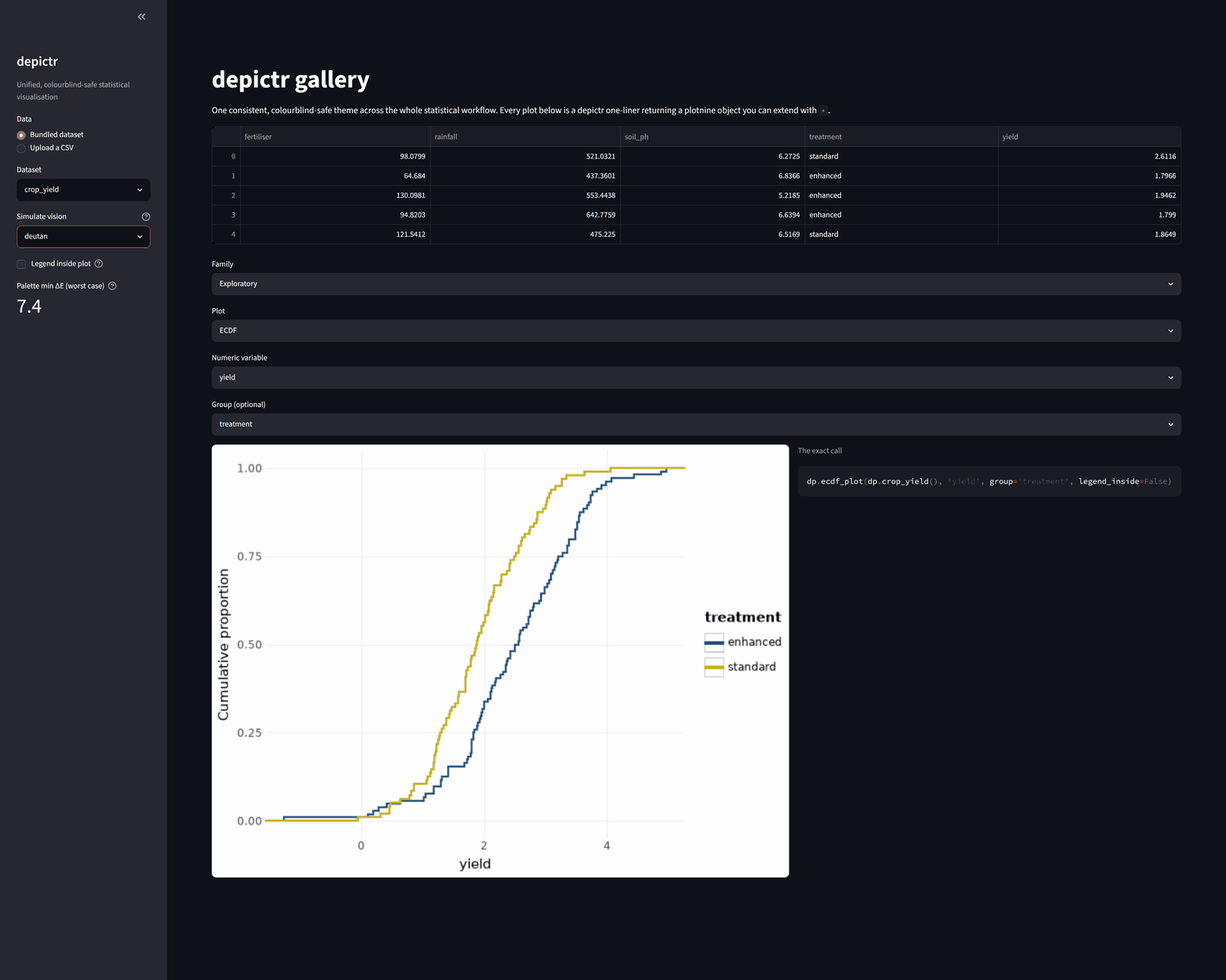
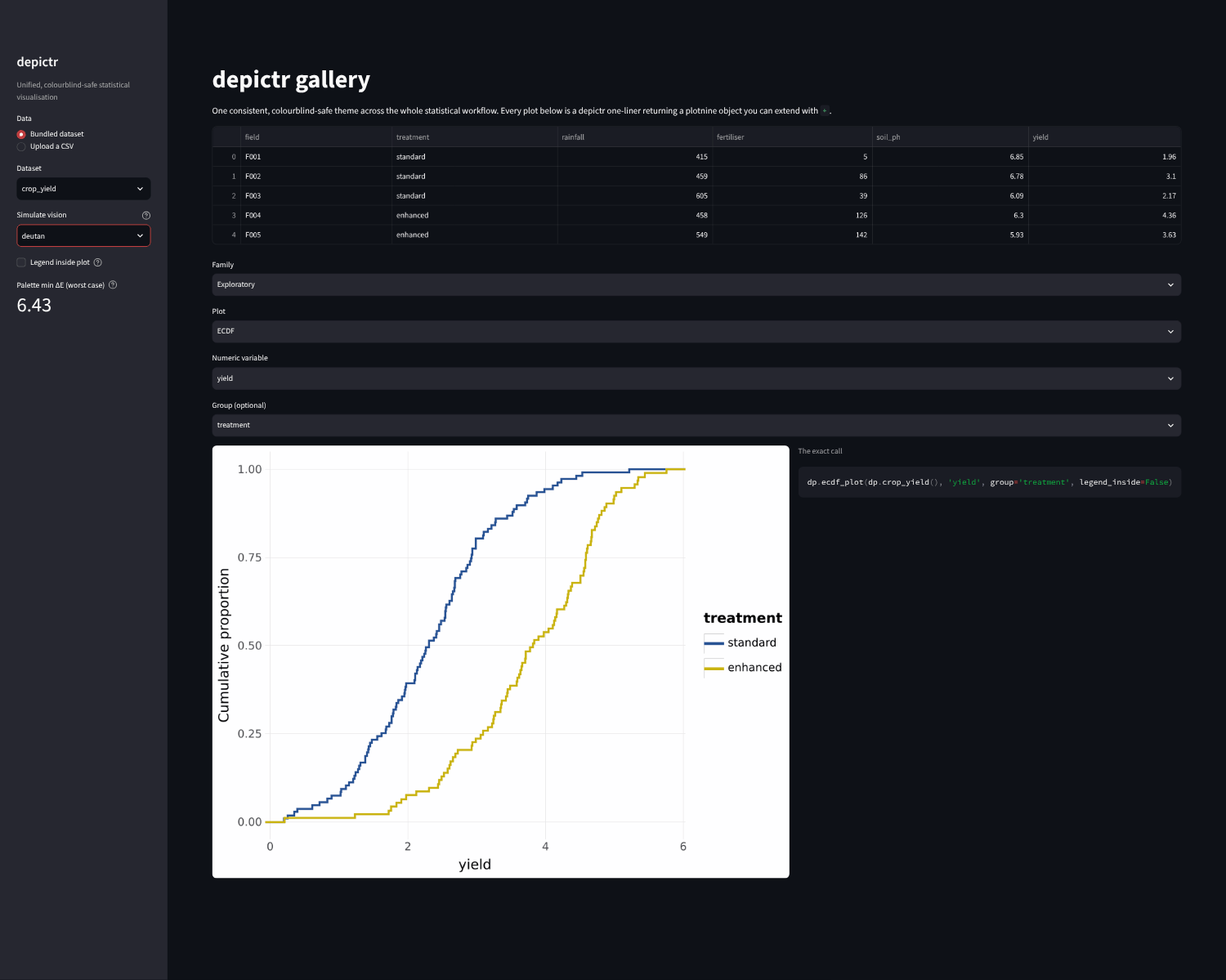
Retake the app screenshots, and describe the palette as based on the Okabe-Ito set
The app guide's two screenshots predated the R datasets and the CIEDE2000
distance. They showed a worst-case palette distance of 7.4 where the app
shows 6.43, and the treatments in each other's colours. Both are retaken from
the current app, headless, at the same size, and their alt text describes what
they show. The docstrings, README and guides called the built-in palette the
Okabe-Ito set and credited that set with the pair palette_safety()'s threshold
is calibrated against. They now say that the palette is based on the set, and
depictr_palette() says what it keeps and replaces, as in the R twin.

random_effects_plot() sorts only the first random-effect term's panel, and its
docstring, comments and the README's list of differences from the R twin now
say so. The stylesheet's theoryforge diagram rules are kept, with comments
saying they serve theoryforge's sites. Comments in the app, pyproject.toml and
CI that narrated earlier states give the current behaviour and its reason, and
ci.yml says that the minimum-versions job installs the oldest declared minor
series. CHANGELOG has one entry under Fixed.

mkdocs build --strict passes, and pytest gives 970 passed, as before.

Claude-Session: https://claude.ai/code/session_01DU2exZ55JyV54E9U6ct3Wn

diff --git a/docs/stylesheets/brand.css b/docs/stylesheets/brand.css
@@ -493,15 +493,16 @@ body[data-md-color-scheme="slate"] .md-footer-meta.md-typeset a:hover {
   color: #fff;
 }
 
-/* Diagram figures shared with the pkgdown site. The chart views (the Venn of
+/* Diagram figures. These rules serve theoryforge's sites, and depictr's sites
+   emit no such figures. They are kept so that this copy of the family's
+   stylesheet stays in step with the others. The chart views (the Venn of
    construct scope, the rigour status grid, the severity bars) and the rendered
    Graphviz views all declare their own width and height, so each is left at its
    natural size and its declared type renders at the size the emitter asked for.
-   An earlier version of this rule instead stretched every chart to a common
-   440px cap, which scaled the three chart views by three different factors, the
-   views having different natural widths, so one identical 13px label came out at
-   12.4px in one figure and 17.9px in another. A chart wider than the column
-   still shrinks to fit rather than forcing a scrollbar. */
+   A common width cap would scale views of different natural widths by
+   different factors, so one 13px label would come out at a different size in
+   each figure. A chart wider than the column still shrinks to fit rather than
+   forcing a scrollbar. */
 .tf-figure { margin: 1.25rem 0; }
 .tf-figure svg {
   display: block;
@@ -628,20 +629,21 @@ body[data-md-color-scheme="slate"] .md-footer-meta.md-typeset a:hover {
 }
 
 /* ---- Scrollbars --------------------------------------------------------- */
-/* A wide code block, table or rendered diagram scrolls inside its own box (set
-   above). Give that scroll a branded, always-visible grip: left to the browser
-   default the thumb all but vanishes against the navy dark-mode code ground, so
-   the bar reads as an empty gutter with no movable part. Both the standard
-   properties (Firefox) and the WebKit pseudo-elements (Chrome, Edge, Safari)
-   are set, so a clearly visible thumb appears in every engine. The colour is
-   the package's bright accent: --brand-teal on most sites (retuned to blue on
-   depictr), falling back to --brand-violet on lexsync.
+/* A wide code block or table, or a rendered diagram on theoryforge's sites,
+   scrolls inside its own box (set above). Give that scroll a branded,
+   always-visible grip: left to the browser default the thumb all but vanishes
+   against the navy dark-mode code ground, so the bar reads as an empty gutter
+   with no movable part. Both the standard properties (Firefox) and the WebKit
+   pseudo-elements (Chrome, Edge, Safari) are set, so a clearly visible thumb
+   appears in every engine. The colour is the package's bright accent:
+   --brand-teal on most sites (retuned to blue on depictr), falling back to
+   --brand-violet on lexsync.
 
    A table needs the wrapper named as well. Material puts the table inside
    .md-typeset__scrollwrap and scrolls that, not the table, so a rule written
-   for the table alone dressed an element that never scrolls and a wide table
-   kept the plain system bar while every code block beside it carried the
-   brand's. */
+   for the table alone would dress an element that never scrolls, and a wide
+   table would keep the plain system bar while every code block beside it
+   carried the brand's. */
 .md-typeset pre,
 .md-typeset pre > code,
 .md-typeset .highlight,
@@ -714,11 +716,11 @@ body[data-md-color-scheme="slate"] .md-footer-meta.md-typeset a:hover {
   padding: 0;
   margin-top: .35rem;
 }
-/* A block that prints its own text, a generated Graphviz DOT source say, cannot
-   be divided line by line at the source, so let output wrap rather than force a
-   horizontal scroll. Source keeps its exact layout: its long lines were
-   shortened at the source, and anything still too wide scrolls under the
-   branded scrollbar. */
+/* A block that prints its own text, such as a generated Graphviz DOT source on
+   theoryforge's sites, cannot be divided line by line at the source, so let
+   output wrap rather than force a horizontal scroll. Source keeps its exact
+   layout: its lines are kept short at the source, and anything still too
+   wide scrolls under the branded scrollbar. */
 /* The accent rule that marks a block as output is painted inside the box, by
    the scheme rules below, rather than added to the border: a 3px border where
    the source block above has none pushed the output text three pixels to the

diff --git a/src/depictr/palette.py b/src/depictr/palette.py
@@ -1,13 +1,13 @@
 """Colourblind-aware palettes shared by every depictr plot.
 
-The qualitative palette is the Okabe-Ito set (Okabe & Ito, 2008), a categorical
-scheme that stays distinguishable under the common forms of colour-vision
-deficiency, led here by the depictr brand blue. The sequential and diverging
-palettes are perceptually ordered single-hue and red-blue ramps. These are the
-defaults behind :func:`depictr.theme.scale_colour_depictr` and the whole package,
-so every figure shares one accessible colour language.
+The qualitative palette is based on the Okabe-Ito set (Okabe & Ito, 2008), a
+categorical scheme that stays distinguishable under the common forms of
+colour-vision deficiency. It is led by the depictr brand blue. The sequential
+and diverging palettes are perceptually ordered single-hue and red-blue ramps.
+These are the defaults behind :func:`depictr.theme.scale_colour_depictr` and the
+whole package, so every figure shares one accessible colour language.
 
-The guarantee is a property of the eight Okabe-Ito colours, not of any number of
+The guarantee is a property of the eight built-in colours, not of any number of
 colours: past eight, :func:`depictr_palette` has to interpolate between them, and
 the interpolated colours sit close enough together to fail
 :func:`depictr.cvd.palette_safety` (nine colours come within a CIEDE2000
@@ -29,8 +29,9 @@ import warnings
 import matplotlib.colors as mcolors
 import numpy as np
 
-# The qualitative palette: the Okabe-Ito colours, led by the depictr brand blue
-# (#005b96) in place of the lighter standard blue so the brand reads first.
+# The qualitative palette, based on the Okabe-Ito colours: the depictr brand blue
+# (#005b96) leads in place of their lighter blue so the brand reads first, and a
+# grey takes the place of their black.
 OKABE_ITO: list[str] = [
     "#005b96",  # blue (brand)
     "#e69f00",  # orange
@@ -122,6 +123,11 @@ def depictr_palette(n: int | None = None, kind: str = "qualitative",
                     order: str = "default") -> list[str]:
     """Return a depictr palette.
 
+    The qualitative palette is based on the Okabe-Ito set and keeps six of its
+    eight colours. The depictr brand blue (``#005b96``) takes the place of its
+    blue (``#0072b2``) and leads the palette, and a grey (``#999999``) takes the
+    place of its black.
+
     In the default order the second colour is the orange (``#e69f00``), at
     2.25:1 against white. Any figure on white whose colour tells two or more
     groups apart therefore fails the ``geometry_contrast`` row of
@@ -150,8 +156,8 @@ def depictr_palette(n: int | None = None, kind: str = "qualitative",
     n : int, optional
         Number of colours to return, a single number of at least 1. A
         fraction is truncated, as in the R twin, so 2.7 gives two colours. For
-        the qualitative palette ``None`` (the default) returns the full
-        Okabe-Ito set, and an ``n`` larger than the available colours is
+        the qualitative palette ``None`` (the default) returns all eight
+        colours, and an ``n`` larger than the available colours is
         interpolated. The sequential and diverging palettes are ramps and
         accept any ``n`` (defaulting to 7).
     kind : {"qualitative", "sequential", "diverging"}
@@ -175,7 +181,7 @@ def depictr_palette(n: int | None = None, kind: str = "qualitative",
     Warns
     -----
     UserWarning
-        When ``n`` exceeds the eight Okabe-Ito colours and the qualitative
+        When ``n`` exceeds the eight built-in colours and the qualitative
         palette is therefore interpolated. The colourblind-safety guarantee
         covers the eight base colours only; an interpolated palette fails
         [`depictr.cvd.palette_safety`][]. Facet the groups, or use the

diff --git a/src/depictr/mixed.py b/src/depictr/mixed.py
@@ -54,7 +54,9 @@ def random_effects_plot(model, title=None):
     error and the plot adds a 95% interval (the point estimate plus or minus
     1.96 standard errors); without it the points are drawn on their own. If the
     model has more than one random-effect term per group (a random intercept and
-    one or more random slopes), the terms are shown in separate panels.
+    one or more random slopes), the terms are shown in separate panels. Only the
+    first panel is then sorted by its effects, and the later panels share its
+    order. The R twin sorts each panel by its own effects.
 
     Parameters
     ----------
@@ -117,12 +119,13 @@ def random_effects_plot(model, title=None):
     df = pd.DataFrame(rows)
     has_interval = df["low"].notna().any()
 
-    # One panel per random-effect term; sort the group axis within each term so
-    # the most negative effect sits at the bottom after the flip.
+    # One panel per random-effect term. Sort by term, then by effect, so that in
+    # the first panel, which shows the term that sorts first, the most negative
+    # effect sits at the bottom after the flip.
     df = df.sort_values(["term", "effect"]).reset_index(drop=True)
-    # A categorical group axis with a per-term ordering: build the level list in
-    # plotting order. When there are several terms the same group appears under
-    # each, so the order is taken from the (already sorted) appearance.
+    # One categorical group axis, shared by every panel: the level list is the
+    # order in which the groups first appear, which is the first term's sorted
+    # order. The panels of later terms keep that order rather than their own.
     order = list(dict.fromkeys(df["group"]))
     df["group"] = pd.Categorical(df["group"], categories=order, ordered=True)
 

diff --git a/src/depictr/cvd.py b/src/depictr/cvd.py
@@ -580,14 +580,15 @@ def palette_safety(colours: str | list[str] | None = None, threshold: float = 5.
     passes the check under CIE76, although under deuteranopia its sky blue and
     its pink come within 2.74 of each other in CIEDE2000.
 
-    The default ``threshold`` of 5.0 is calibrated against the reference
-    colourblind-safe palette: the Okabe-Ito set's tightest pair (reddish-purple
-    against grey) sits at 6.43 under full deuteranopia, so the cut must lie
-    below that to pass the recommended palette, while still flagging colours that
-    become near-identical under a deficiency. The difference includes lightness,
-    which survives colour-vision deficiency, so two colours that share a hue but
-    differ in lightness are correctly treated as distinguishable. Full severity
-    is the worst case; most colour-vision deficiency is milder.
+    The default ``threshold`` of 5.0 is calibrated against the built-in palette
+    of [`depictr.depictr_palette`][], which is based on the Okabe-Ito set. That
+    palette's tightest pair (reddish-purple against grey) sits at 6.43 under full
+    deuteranopia, so the cut must lie below that to pass the built-in palette,
+    while still flagging colours that become near-identical under a deficiency.
+    The difference includes lightness, which survives colour-vision deficiency,
+    so two colours that share a hue but differ in lightness are correctly
+    treated as distinguishable. Full severity is the worst case; most
+    colour-vision deficiency is milder.
 
     Parameters
     ----------

diff --git a/src/depictr/timeseries.py b/src/depictr/timeseries.py
@@ -480,12 +480,12 @@ def seasonal_plot(x, period=None, title=None):
         + geom_point(size=1.5)
         + x_scale
         # The cycles are a sequence, not unrelated categories, so they take a
-        # single-hue ramp. It reads in time order and, unlike the eight
-        # Okabe-Ito colours of the qualitative palette, extends to any number
-        # of cycles, although past about six its neighbouring colours blur. It
-        # leaves out the palest colour of the sequential palette, which is
-        # close to invisible as a line. The legend is reversed so the darkest,
-        # most recent cycle sits at the top of the key, matching the R twin.
+        # single-hue ramp. It reads in time order and, unlike the eight colours
+        # of the qualitative palette, extends to any number of cycles, although
+        # past about six its neighbouring colours blur. It leaves out the
+        # palest colour of the sequential palette, which is close to invisible
+        # as a line. The legend is reversed so the darkest, most recent cycle
+        # sits at the top of the key, matching the R twin.
         + scale_color_manual(values=_cycle_palette(n_cycles),
                              name="Cycle", guide=guide_legend(reverse=True))
         + labs(x="Position in period", y="Value", title=title)

diff --git a/src/depictr/__init__.py b/src/depictr/__init__.py
@@ -6,8 +6,8 @@ statistical workflow -- exploratory analysis, model estimates, diagnostics,
 classification, multivariate analysis, survival and time series -- so a coherent
 figure set no longer means stitching together half a dozen libraries with
 mismatched defaults. Every plotting function returns a plotnine object you can
-extend with ``+``, and the colourblind-safe Okabe-Ito palette is the default,
-validated by a built-in colour-vision-deficiency safety check.
+extend with ``+``, and a colourblind-safe palette based on the Okabe-Ito set is
+the default, validated by a built-in colour-vision-deficiency safety check.
 
 It is the Python sibling of the depictr R package
 (https://pablobernabeu.github.io/depictr/).

diff --git a/src/depictr/theme.py b/src/depictr/theme.py
@@ -149,7 +149,7 @@ def scale_colour_depictr(n: int | None = None, order: str = "default",
     ----------
     n : int, optional
         Number of colours to draw. By default, the scale takes as many colours
-        as the plot has groups: the Okabe-Ito colours in order up to eight,
+        as the plot has groups: the built-in colours in order up to eight,
         and past eight a palette interpolated through them. Interpolation loses
         the colourblind-safety guarantee, which covers the eight base colours
         only, so [`depictr.palette.depictr_palette`][] warns past eight; facet

diff --git a/README.md b/README.md
@@ -24,11 +24,11 @@ two differ.
 
 ## Gallery
 
-A grouped density (the default palette is the colourblind-safe Okabe-Ito set) and
-Kaplan-Meier survival curves with a log-rank test and a number-at-risk table,
-both from a single function call:
+A grouped density (the default palette is a colourblind-safe set based on
+Okabe-Ito) and Kaplan-Meier survival curves with a log-rank test and a
+number-at-risk table, both from a single function call:
 
-![Grouped density of response times by priming condition, in the Okabe-Ito palette](https://raw.githubusercontent.com/pablobernabeu/depictr-py/main/images/readme-distribution.png)
+![Grouped density of response times by priming condition, in the default palette](https://raw.githubusercontent.com/pablobernabeu/depictr-py/main/images/readme-distribution.png)
 
 ![Kaplan-Meier survival curves by treatment arm, with a log-rank test and a number-at-risk table](https://raw.githubusercontent.com/pablobernabeu/depictr-py/main/images/readme-survival.png)
 
@@ -55,10 +55,11 @@ accessible figure.
 
 ## Accessibility by default
 
-The default palette is the Okabe-Ito set, and the package puts that choice to a
-test. It ships a simulator of colour-vision deficiency based on the model of
-Machado, Oliveira and Fernandes (2009), and a CIEDE2000 colour-difference test
-that measures how far apart the palette's colours stay under each deficiency:
+The default palette is based on the Okabe-Ito set, and the package puts that
+choice to a test. It ships a simulator of colour-vision deficiency based on the
+model of Machado, Oliveira and Fernandes (2009), and a CIEDE2000
+colour-difference test that measures how far apart the palette's colours stay
+under each deficiency:
 
 ```python
 import depictr as dp
@@ -69,7 +70,7 @@ dp.palette_safety()
 #  'safe': True, 'threshold': 5.0}
 ```
 
-The guarantee belongs to the eight Okabe-Ito colours. A plot with more than
+The guarantee belongs to the eight built-in colours. A plot with more than
 eight groups has to interpolate between them, and the interpolated colours no
 longer clear the distance threshold, so `depictr_palette` warns when it is asked
 for a ninth. Facet the groups, or map them to the sequential ramp, when a figure
@@ -258,7 +259,10 @@ x-axis of its own by default. `model_report` draws the coefficients
 on their own scale beside a residual panel and a Q-Q plot, where the R function
 standardises the continuous predictors by default and adds an effects panel and
 a subtitle of fit statistics. `effects_plot` draws no rug of the observed
-values, which the R function adds by default. `influence_plot` labels no point
+values, which the R function adds by default. With more than one random-effect
+term, `random_effects_plot` sorts the first term's panel by its effects and
+draws the later panels in that order, where the R function sorts each panel by
+its own effects. `influence_plot` labels no point
 and draws only the line at zero, where the R function labels the three points
 with the largest Cook's distance and adds reference lines at studentised
 residuals of -2 and 2 and at twice the mean leverage.

diff --git a/docs/app.md b/docs/app.md
@@ -15,7 +15,7 @@ holds the plot family, the plot, its variables, the figure and the call that
 produced it. Here it is with the crop-yield trial loaded and an empirical
 cumulative distribution split by treatment.
 
-![The depictr app with the crop-yield dataset loaded. The sidebar shows the dataset selector, a colour-vision selector reading "normal" and the palette's worst-case colour distance of 7.4. The main pane shows the first rows of the data, selectors reading Exploratory, ECDF, yield and treatment, a cumulative distribution with a blue curve for the enhanced treatment and an orange one for the standard treatment, and beside it the call dp.ecdf_plot(dp.crop_yield(), 'yield', group='treatment', legend_inside=False).](assets/app-plot-pane.png){ width="820" }
+![The depictr app with the crop-yield dataset loaded. The sidebar shows the dataset selector, a colour-vision selector reading "normal", an unticked "Legend inside plot" checkbox and the palette's worst-case colour distance of 6.43. The main pane shows the first rows of the data, selectors reading Exploratory, ECDF, yield and treatment, a cumulative distribution with a blue curve for the standard treatment and an orange one for the enhanced treatment, and beside it the call dp.ecdf_plot(dp.crop_yield(), 'yield', group='treatment', legend_inside=False).](assets/app-plot-pane.png){ width="820" }
 
 The call beside the figure is the point of the whole pane. Whatever you arrive
 at by clicking, you can paste into a script and get the same figure back.
@@ -44,7 +44,7 @@ chosen for, and the two curves stay as easy to tell apart as before. The app
 draws the simulated figure with `dp.simulate_figure`, so a script can produce
 the same view.
 
-![The same app view with the colour-vision selector set to "deutan". The cumulative distribution is redrawn with the standard-treatment curve shifted from orange to mustard yellow while the enhanced-treatment curve stays blue, and the two remain clearly distinguishable.](assets/app-colour-vision.png){ width="820" }
+![The same app view with the colour-vision selector set to "deutan". The cumulative distribution is redrawn with the enhanced-treatment curve shifted from orange to mustard yellow while the standard-treatment curve stays blue, and the two remain clearly distinguishable.](assets/app-colour-vision.png){ width="820" }
 
 ## Your own data
 

diff --git a/CHANGELOG.md b/CHANGELOG.md
@@ -248,7 +248,7 @@ and this project adheres to [Semantic Versioning](https://semver.org/spec/v2.0.0
   distance it replaces overstates differences between saturated colours:
   ggplot2's default five-colour palette was certified safe under
   deuteranopia, though two of its colours become almost identical, 2.74 apart
-  in CIEDE2000. The threshold stays at 5, and the Okabe-Ito palette's closest
+  in CIEDE2000. The threshold stays at 5, and the built-in palette's closest
   pair now measures 6.43, where it measured 7.4. `depictr_palette(9)` already
   warned that interpolated colours lose the guarantee, and its nine colours
   now fail the check too. `metric="cie76"` restores the old measure for this
@@ -815,6 +815,22 @@ and this project adheres to [Semantic Versioning](https://semver.org/spec/v2.0.0
   that every function returns a plotnine object, which holds for the plotting
   functions, and the app guide now names the sidebar's controls, the legend
   checkbox among them.
+- Documentation. The README, the guides and the docstrings called the default
+  palette the Okabe-Ito set. It is based on that set and keeps six of its
+  eight colours, with the brand blue and a grey in place of its blue and
+  black, as the docstring of `depictr_palette()` now says. The docstring of
+  `palette_safety()` credited the Okabe-Ito set with the pair that the default
+  `threshold` of 5 is calibrated against, the reddish purple and the grey,
+  6.43 apart under full deuteranopia. That set has no grey, and the docstring
+  now gives the pair to the built-in palette. `random_effects_plot()` said
+  that it sorts the levels by their effect. With more than one random-effect
+  term, only the first panel is sorted, and the later panels share its order,
+  where the R twin sorts each panel by its own effects. The docstring and the
+  README now say so. The app guide's two screenshots showed an older app, with
+  a worst-case colour distance of 7.4, the crop-yield data without its `field`
+  column and the treatments' colours the other way round. They are retaken
+  from the current app, which shows 6.43 and draws the standard treatment in
+  blue and the enhanced one in orange, and their descriptions match.
 
 ## [0.3.0] - 2026-09-24
 

diff --git a/docs/index.md b/docs/index.md
@@ -12,7 +12,7 @@ A single figure set for a paper might otherwise draw on seaborn, scikit-learn, s
 
 ## Accessibility by default
 
-The default palette is the Okabe-Ito set, and the package measures how well that choice holds up. A built-in simulator and a colour-distance test confirm that the palette stays legible under each form of colour-vision deficiency. The guarantee belongs to the eight Okabe-Ito colours. A figure with more groups than that has to interpolate between them, and depictr warns at the point of interpolation, so the interpolated colours are never passed off as safe. The guarantee also stops at hue confusion and says nothing about greyscale. `check_figure` measures both on the figure in front of you, along with its text size at print width and the contrast of its text and geometry. The [accessibility page](gallery/accessibility.md) of the gallery renders the safety report and a full audit.
+The default palette is based on the Okabe-Ito set, and the package measures how well that choice holds up. A built-in simulator and a colour-distance test confirm that the palette stays legible under each form of colour-vision deficiency. The guarantee belongs to the eight built-in colours. A figure with more groups than that has to interpolate between them, and depictr warns at the point of interpolation, so the interpolated colours are never passed off as safe. The guarantee also stops at hue confusion and says nothing about greyscale. `check_figure` measures both on the figure in front of you, along with its text size at print width and the contrast of its text and geometry. The [accessibility page](gallery/accessibility.md) of the gallery renders the safety report and a full audit.
 
 ## Install
 

diff --git a/docs/getting-started.md b/docs/getting-started.md
@@ -29,10 +29,11 @@ to pin the tested statsmodels floor.
 
 ## The idea
 
-The whole workflow gets one theme, one colourblind-safe palette (the Okabe-Ito
-set) and one calling convention. Specialist computations stay with the packages
-that do them well, and each result is redrawn under the shared theme, so a ROC
-curve, a coefficient plot and a survival curve read as parts of one figure set.
+The whole workflow gets one theme, one colourblind-safe palette (based on the
+Okabe-Ito set) and one calling convention. Specialist computations stay with the
+packages that do them well, and each result is redrawn under the shared theme,
+so a ROC curve, a coefficient plot and a survival curve read as parts of one
+figure set.
 
 ```python
 import depictr as dp
@@ -116,10 +117,11 @@ dp.roc_curve_plot(ct["adverse_event"], ct["biomarker"])
 
 ## Checking the accessibility claim
 
-The default palette is the Okabe-Ito set, and the claim behind that choice is
-testable. A simulator of colour-vision deficiency, based on the model of Machado,
-Oliveira and Fernandes (2009), and a CIEDE2000 colour-difference test measure
-how far apart the palette's colours stay under each form of deficiency.
+The default palette is based on the Okabe-Ito set, and the claim behind that
+choice is testable. A simulator of colour-vision deficiency, based on the model
+of Machado, Oliveira and Fernandes (2009), and a CIEDE2000 colour-difference
+test measure how far apart the palette's colours stay under each form of
+deficiency.
 
 ```python
 dp.palette_safety()
